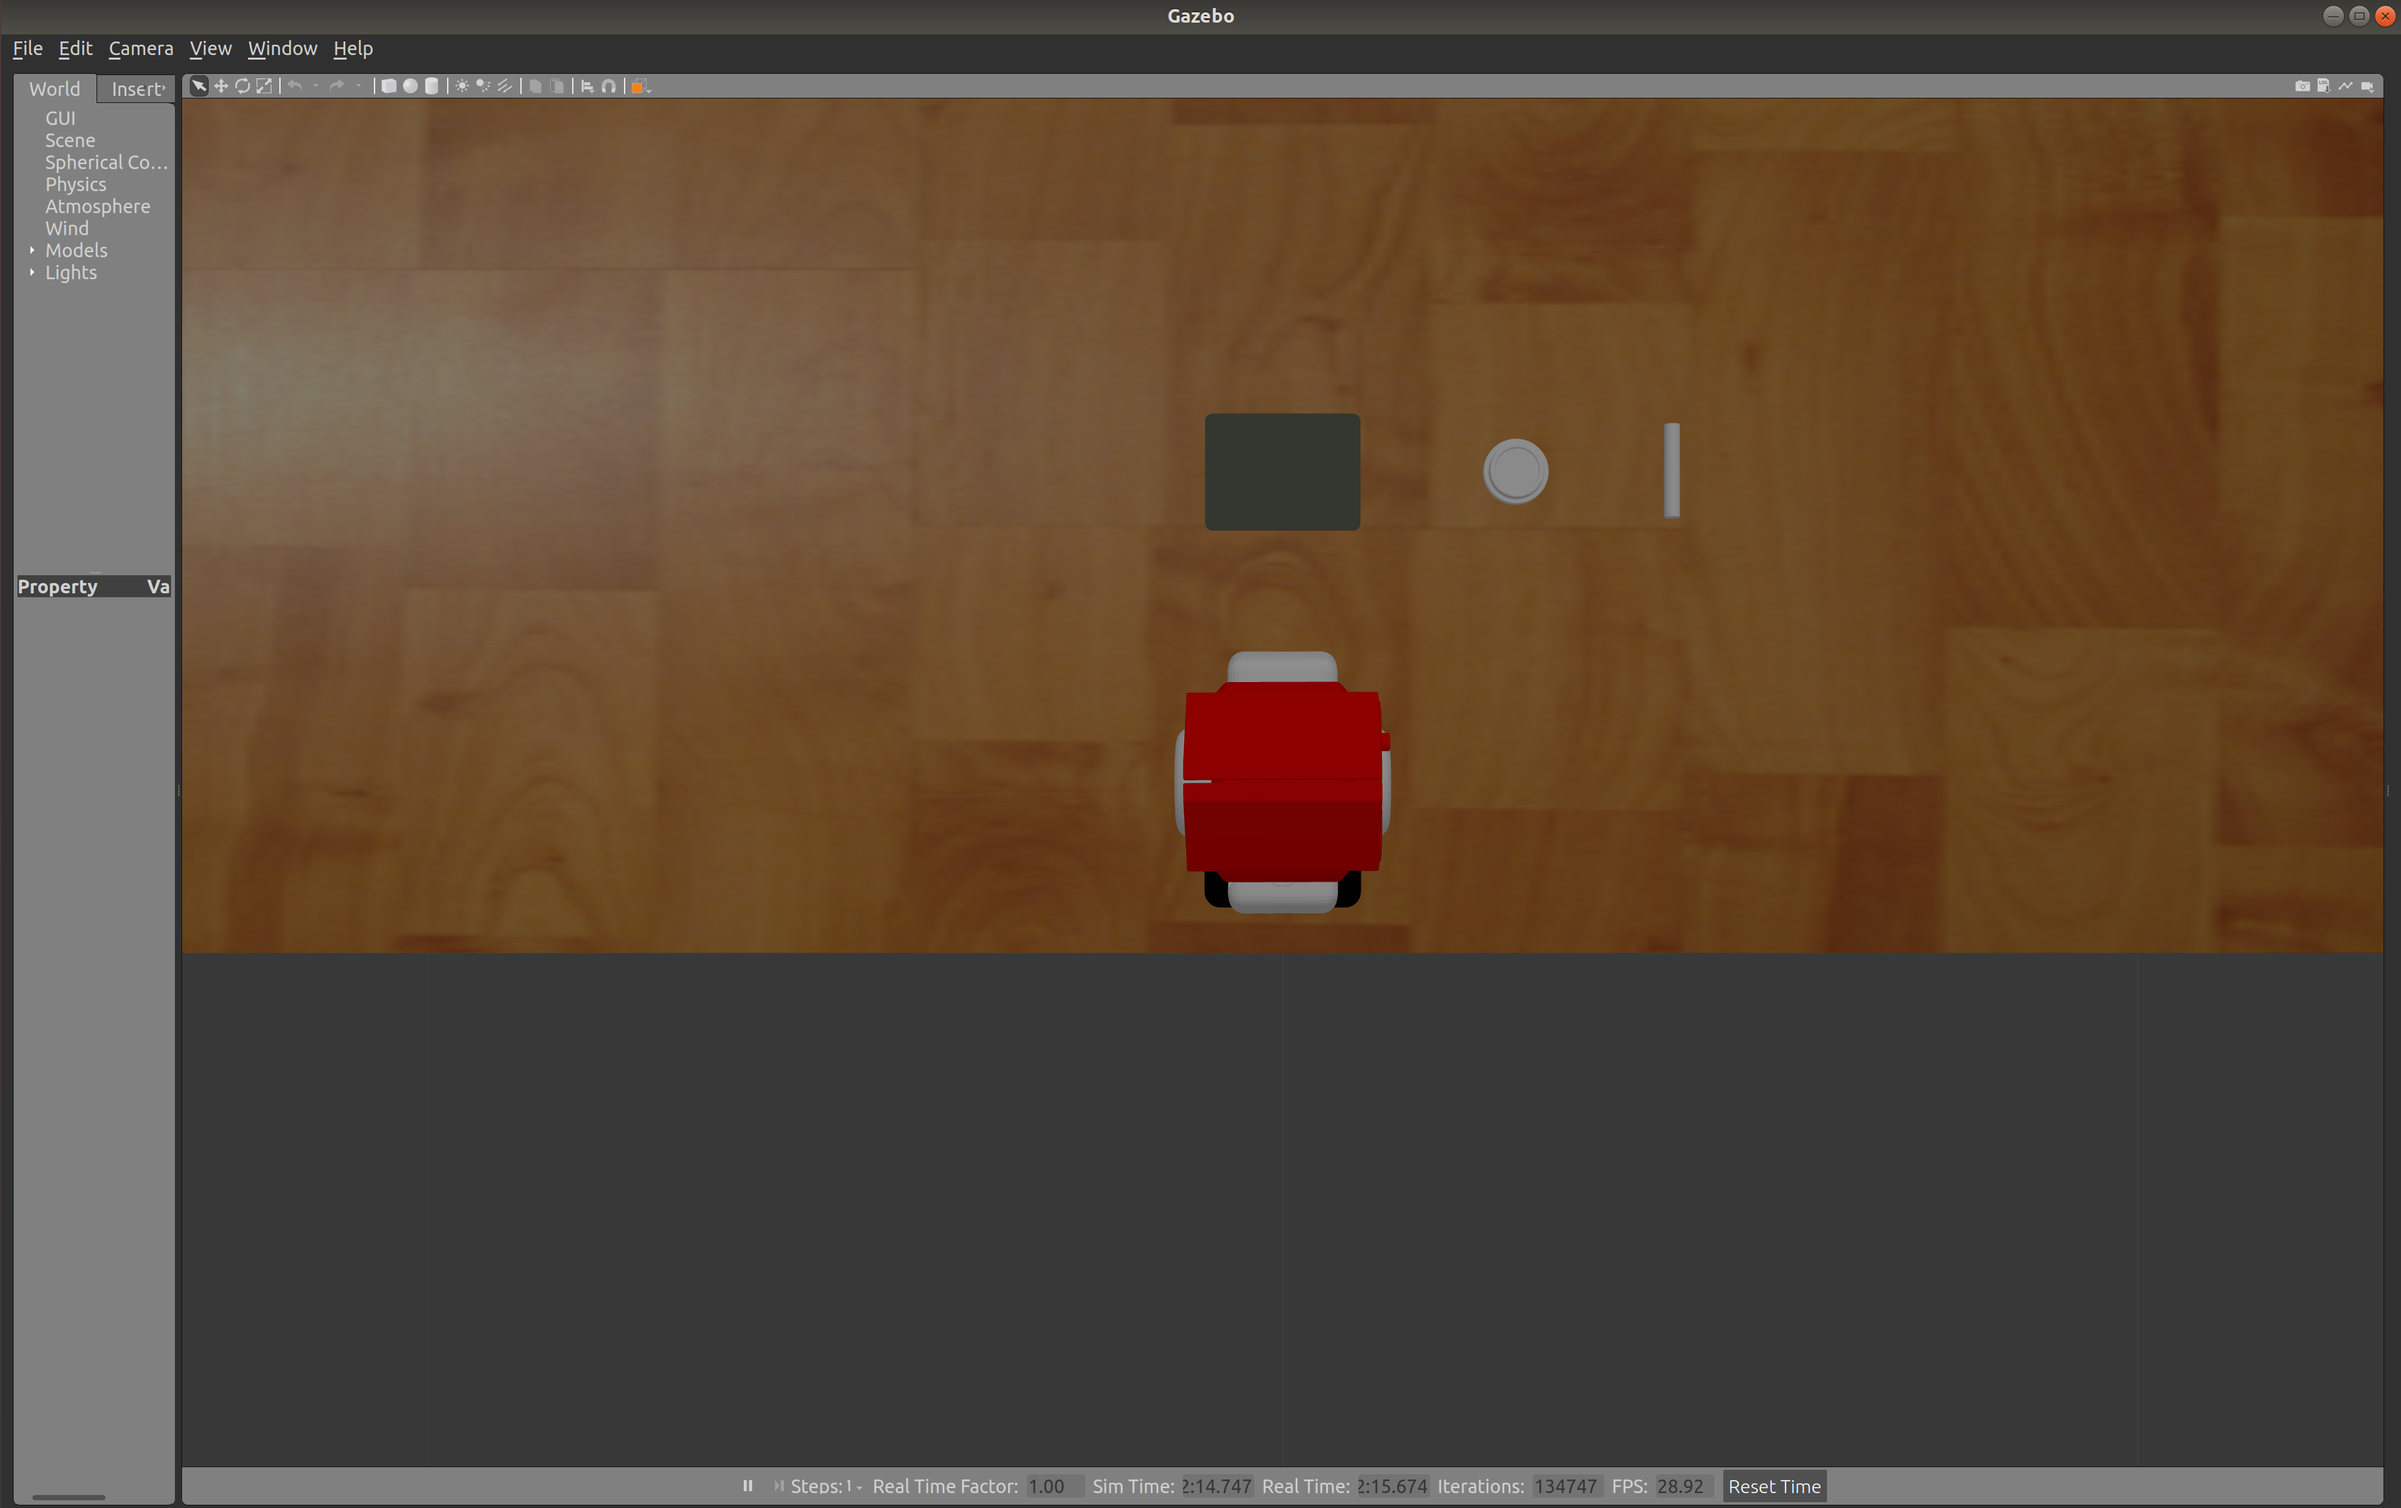
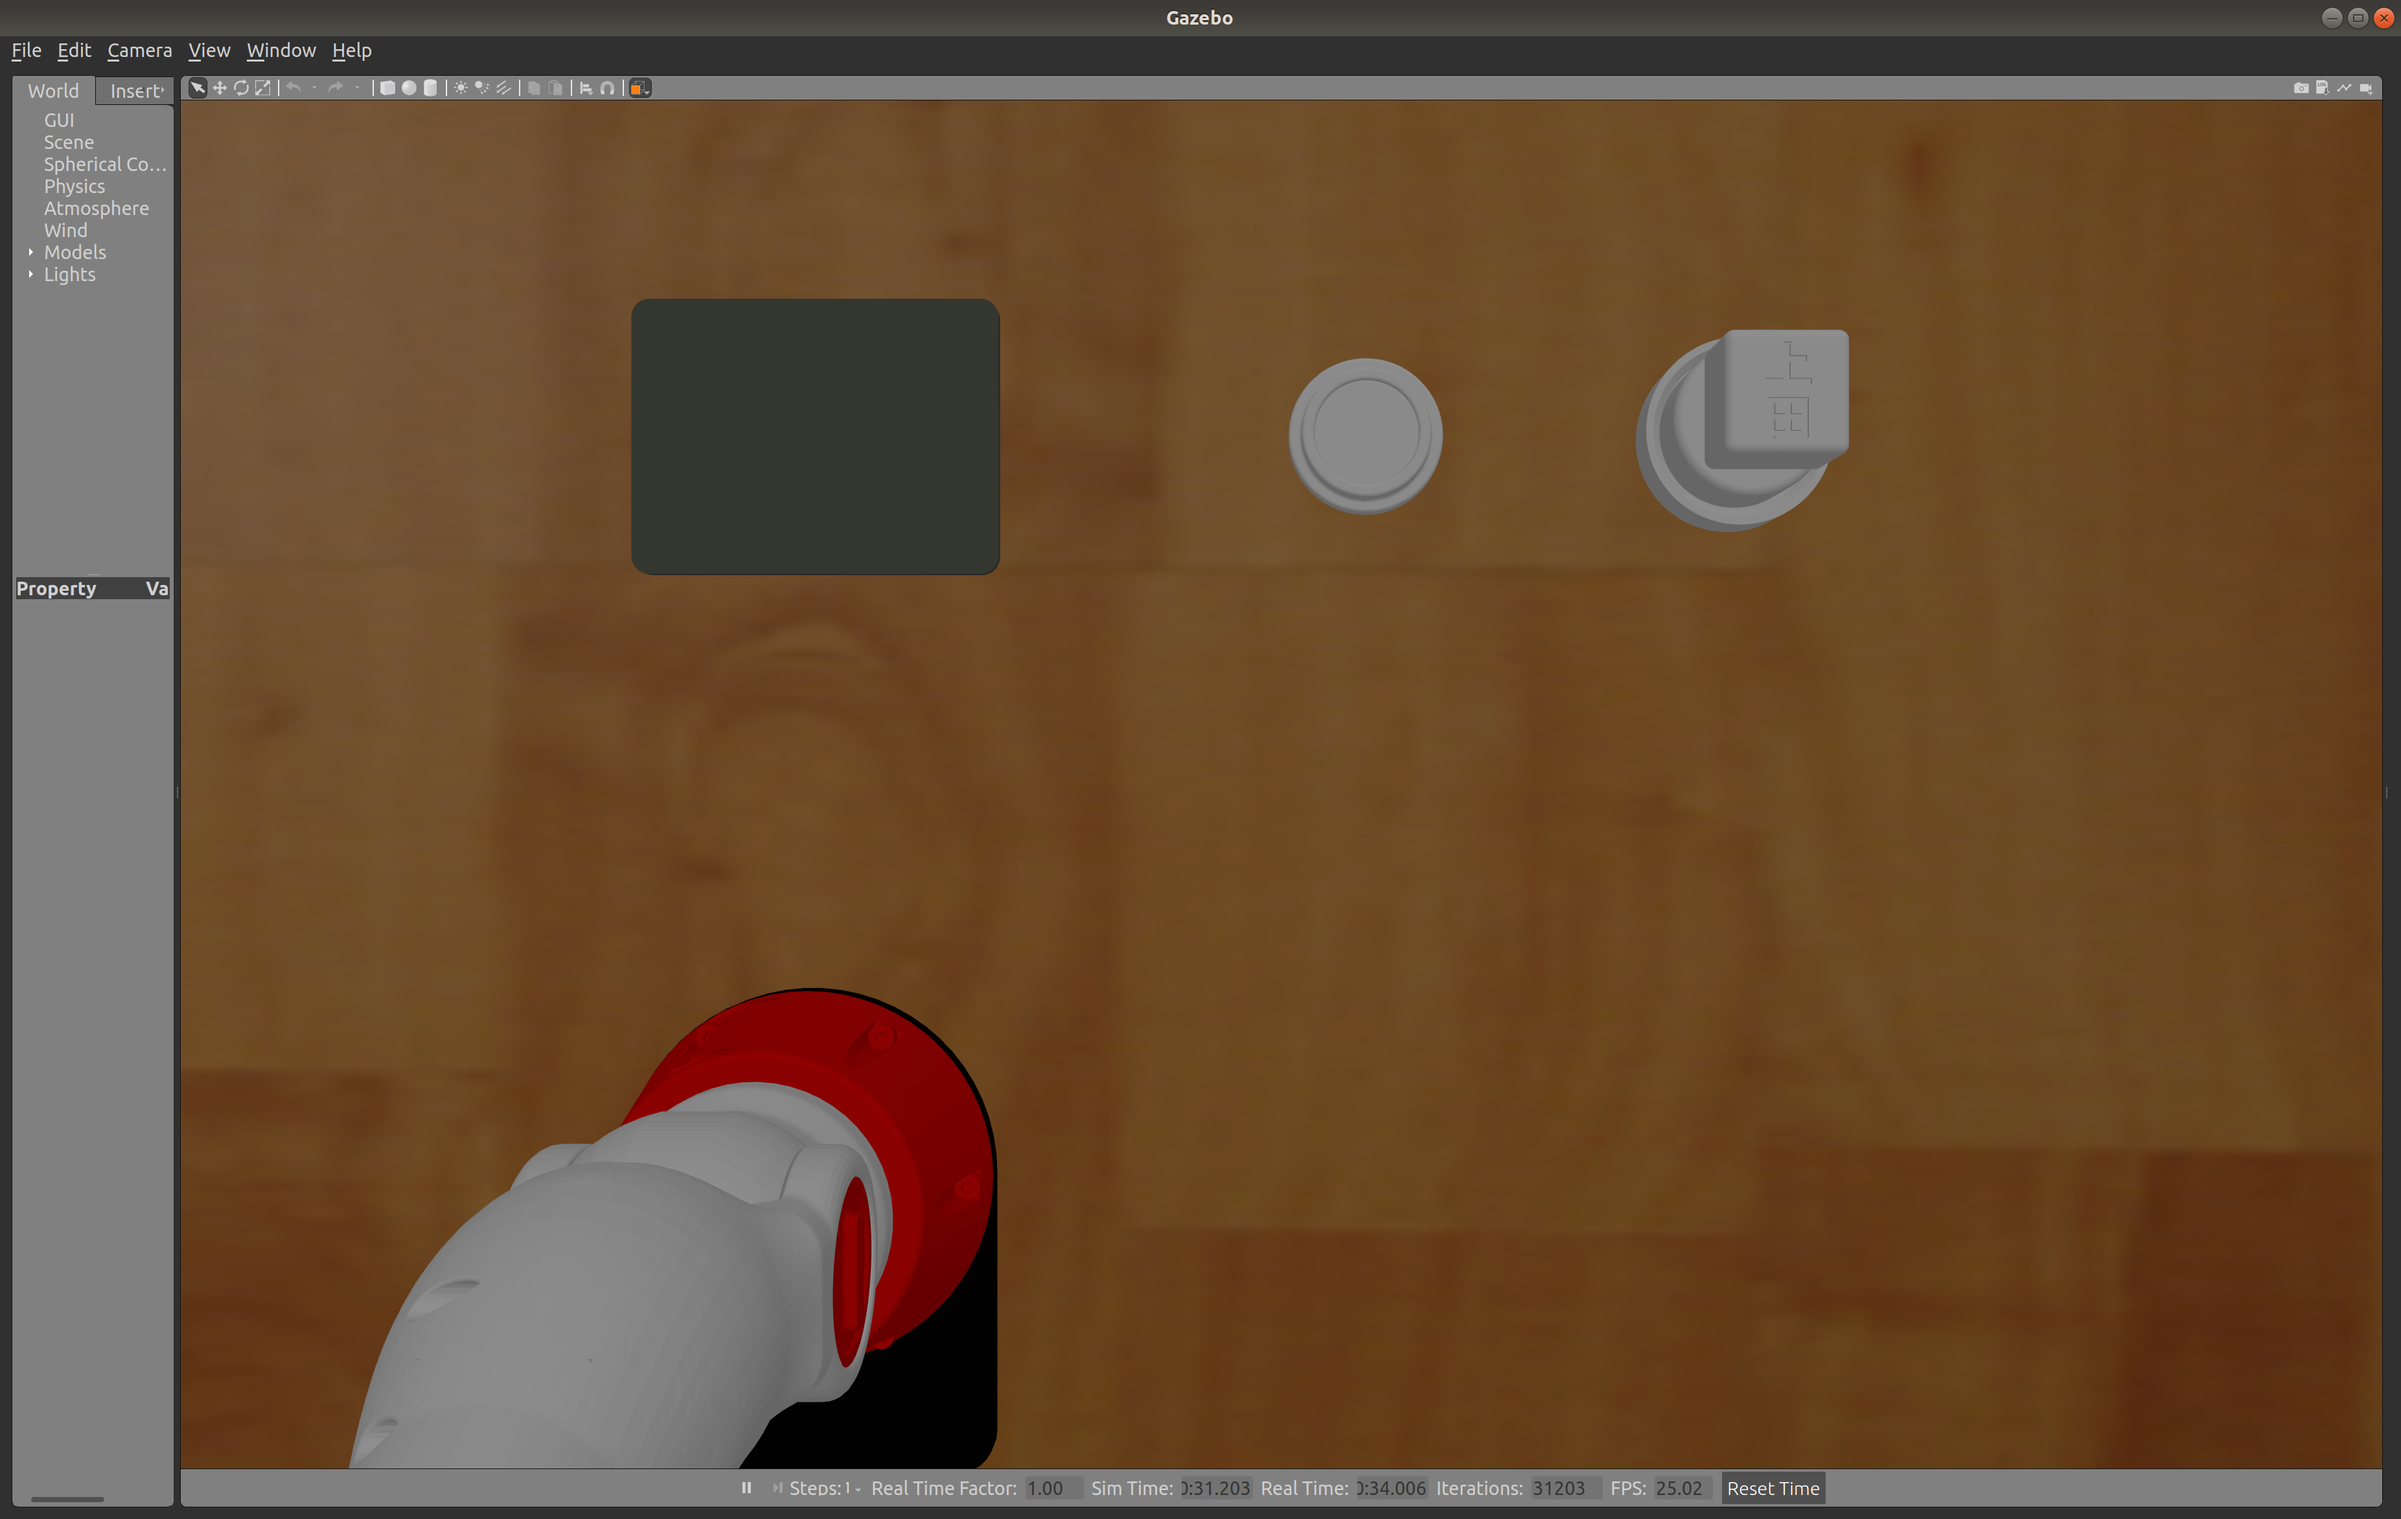
補助具付きモデルに変更

diff --git a/crane_x7_examples/scripts/robotdesign3_team5.py b/crane_x7_examples/scripts/robotdesign3_team5.py
@@ -8,6 +8,20 @@ import rosnode
 import math
 from tf.transformations import quaternion_from_euler
 
+def arm_move(x,y,z,a,b,c):
+    target_pose = geometry_msgs.msg.Pose()
+    target_pose.position.x = x
+    target_pose.position.y = y
+    target_pose.position.z = z
+    q = quaternion_from_euler(a,b,c)
+    target_pose.orientation.x = q[0]
+    target_pose.orientation.y = q[1]
+    target_pose.orientation.z = q[2]
+    target_pose.orientation.w = q[3]
+    arm.set_pose_target(target_pose)  # 目標ポーズ設定
+    arm.go()  # 実行
+    rospy.sleep(1.0)
+
 
 def main():    
     # はんこ
